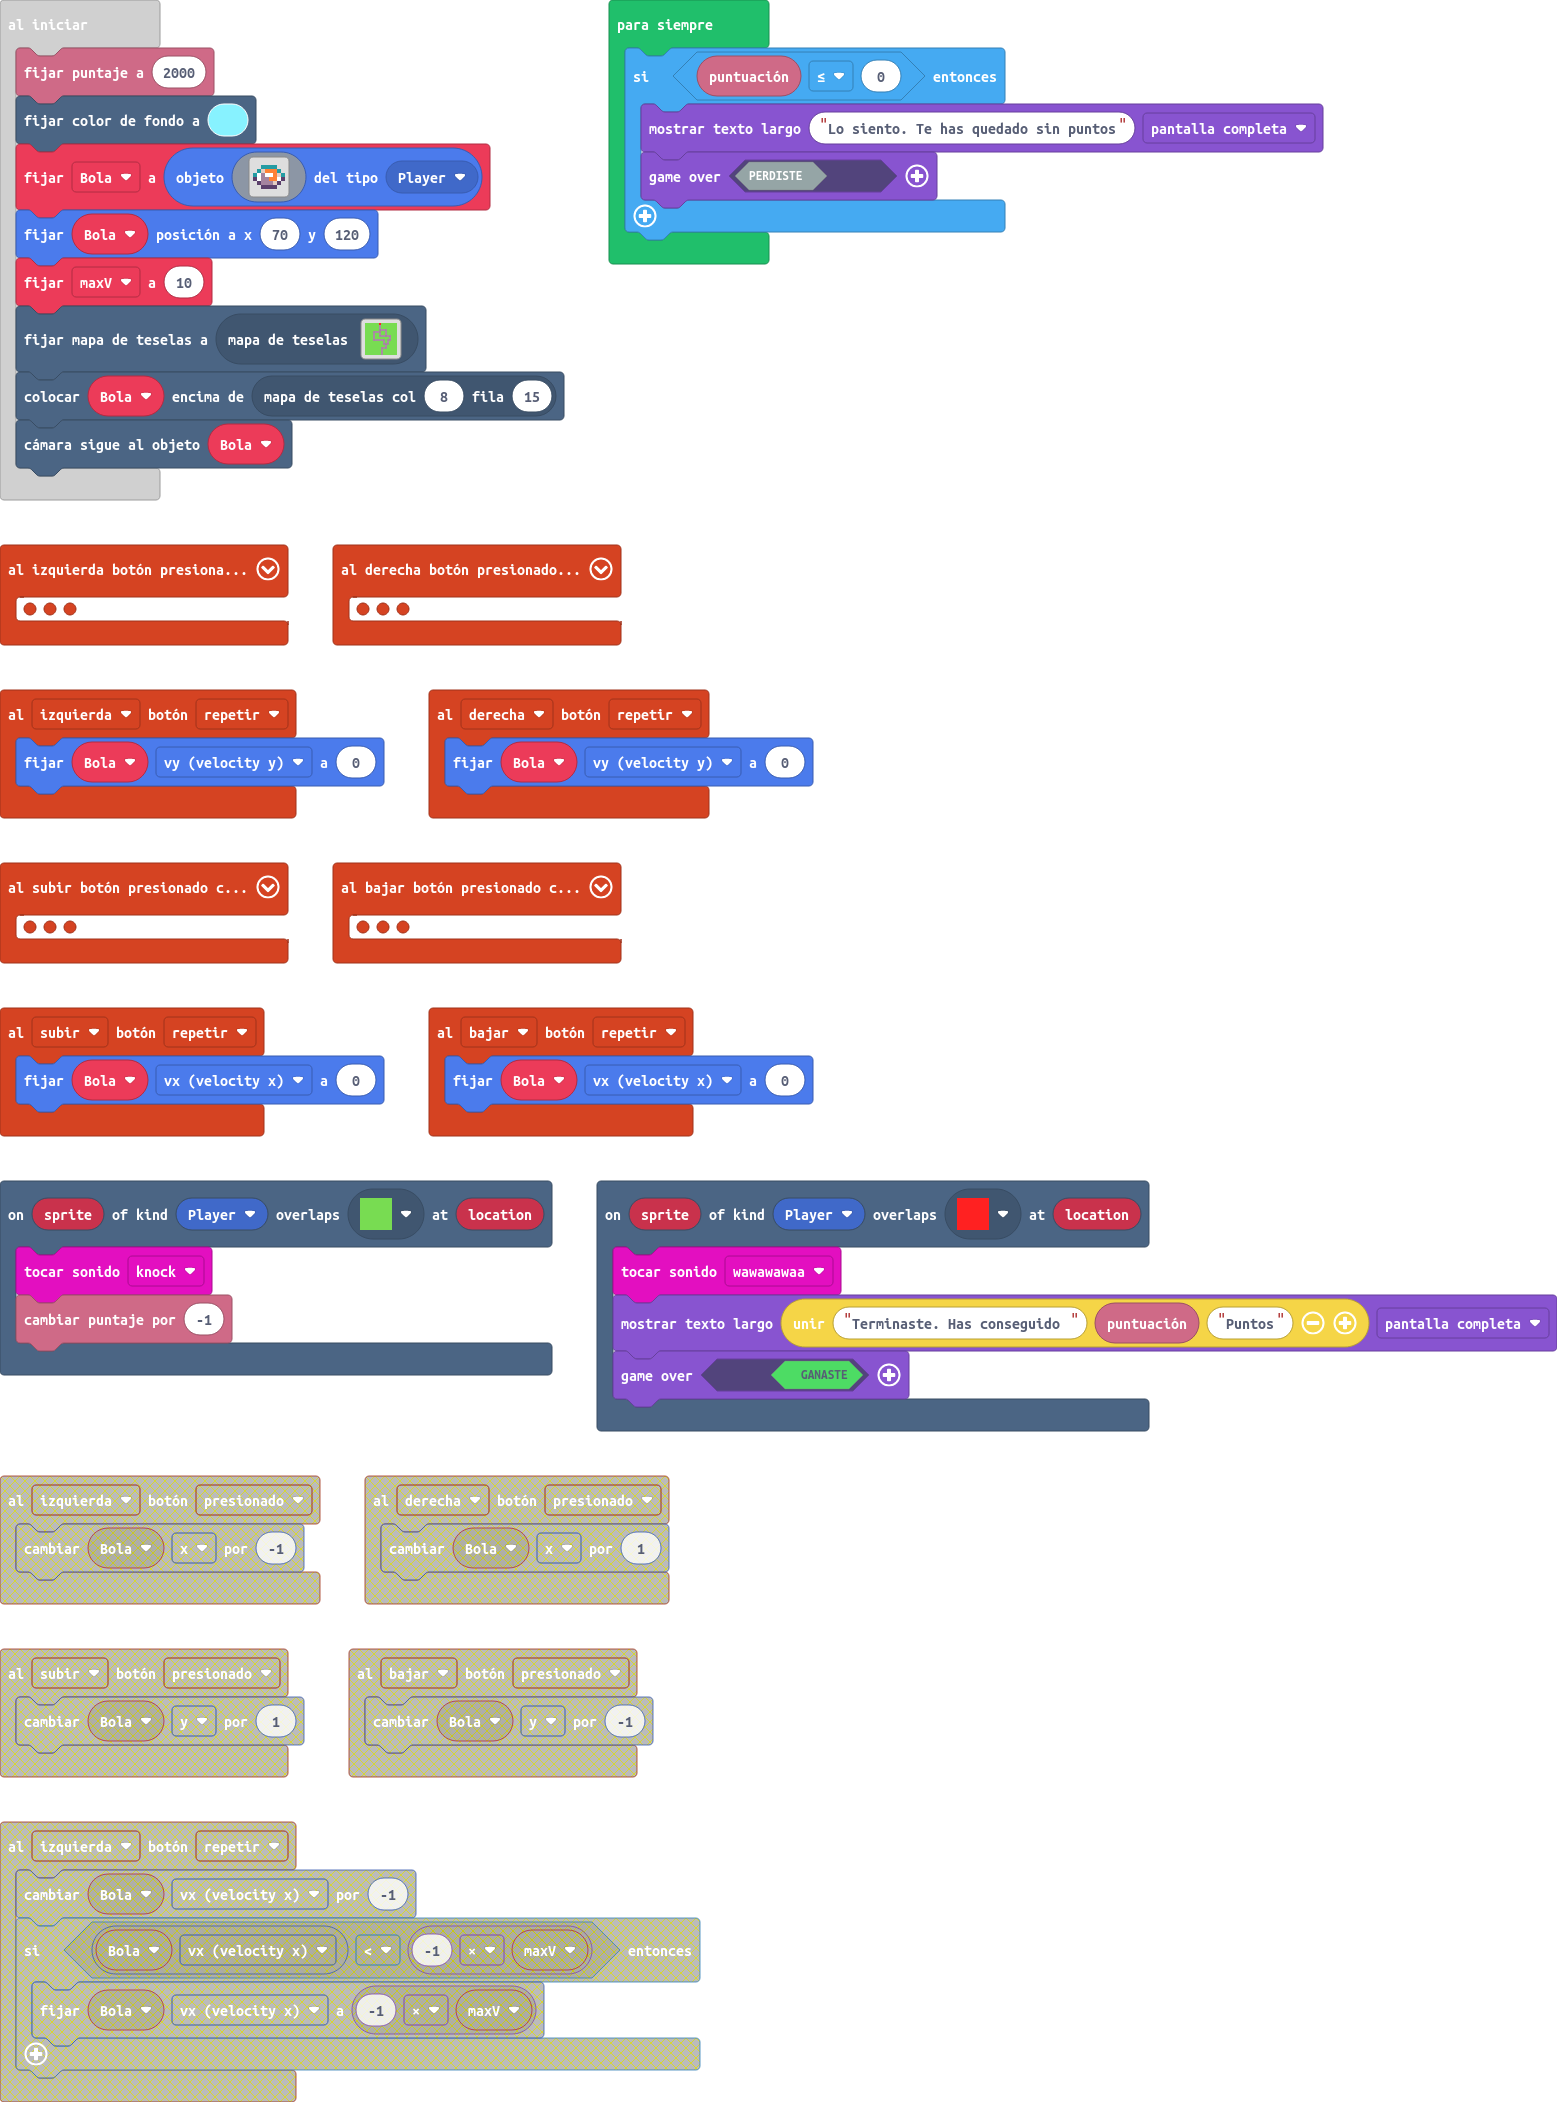
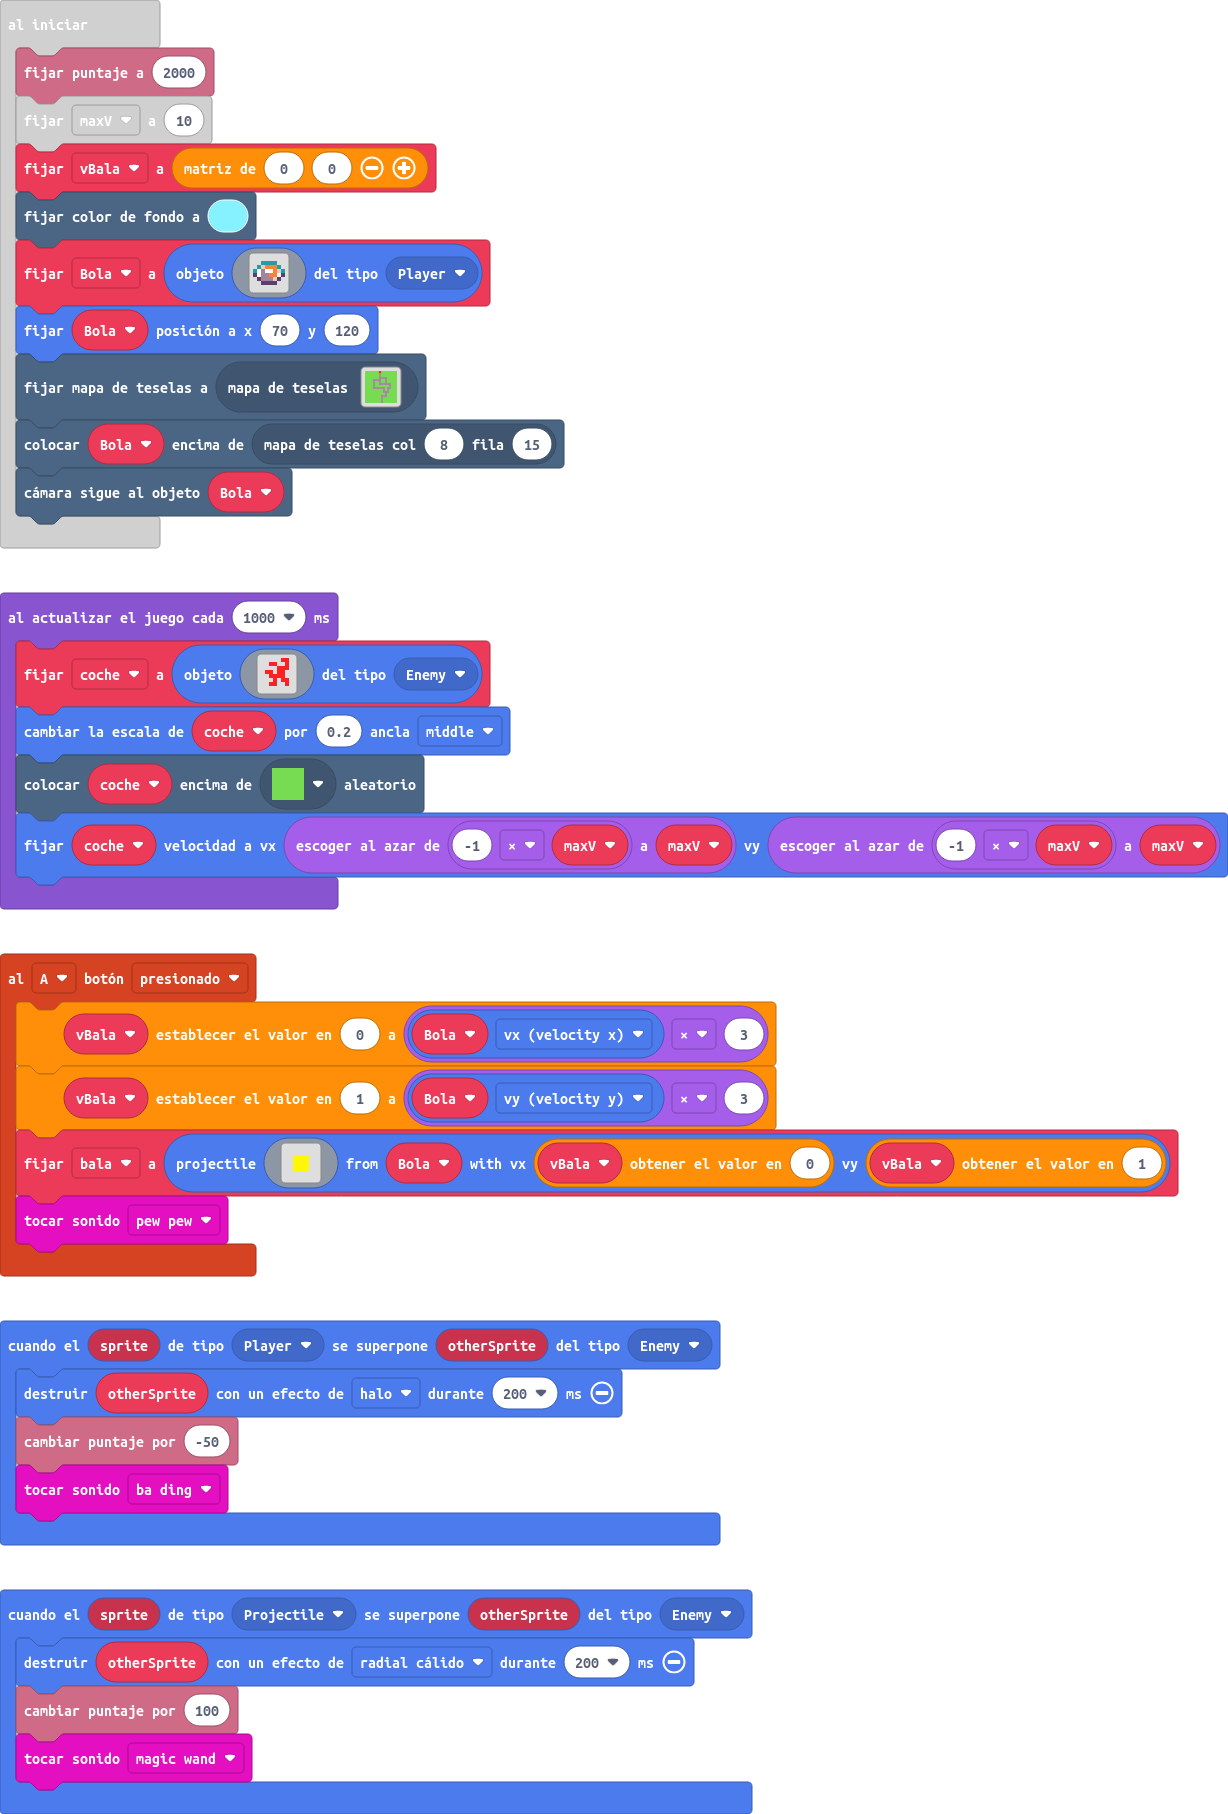
Juego acabado.

diff --git a/main.ts b/main.ts
@@ -19,6 +19,17 @@ scene.onOverlapTile(SpriteKind.Player, assets.tile`myTile`, function (sprite, lo
     music.knock.play()
     info.changeScoreBy(-1)
 })
+controller.A.onEvent(ControllerButtonEvent.Pressed, function () {
+    vBala[0] = Bola.vx * 3
+    vBala[1] = Bola.vy * 3
+    bala = sprites.createProjectileFromSprite(img`
+        . . . . 
+        . 5 5 . 
+        . 5 5 . 
+        . . . . 
+        `, Bola, vBala[0], vBala[1])
+    music.pewPew.play()
+})
 controller.down.onEvent(ControllerButtonEvent.Repeated, function () {
     Bola.vx = 0
 })
@@ -40,12 +51,27 @@ controller.right.onEvent(ControllerButtonEvent.Repeated, function () {
 controller.up.onEvent(ControllerButtonEvent.Repeated, function () {
     Bola.vx = 0
 })
+sprites.onOverlap(SpriteKind.Projectile, SpriteKind.Enemy, function (sprite, otherSprite) {
+    otherSprite.destroy(effects.warmRadial, 200)
+    info.changeScoreBy(100)
+    music.magicWand.play()
+})
+sprites.onOverlap(SpriteKind.Player, SpriteKind.Enemy, function (sprite, otherSprite) {
+    otherSprite.destroy(effects.halo, 200)
+    info.changeScoreBy(-50)
+    music.baDing.play()
+})
 controller.left.onEvent(ControllerButtonEvent.Repeated, function () {
     Bola.vy = 0
 })
-let maxV = 0
+let coche: Sprite = null
+let bala: Sprite = null
 let Bola: Sprite = null
+let vBala: number[] = []
+let maxV = 0
 info.setScore(2000)
+maxV = 10
+vBala = [0, 0]
 scene.setBackgroundColor(9)
 Bola = sprites.create(img`
     . . 6 6 6 6 . . 
@@ -56,10 +82,15 @@ Bola = sprites.create(img`
     . . c c c c . . 
     `, SpriteKind.Player)
 Bola.setPosition(70, 120)
-maxV = 10
 tiles.setCurrentTilemap(tilemap`nivel1`)
 tiles.placeOnTile(Bola, tiles.getTileLocation(8, 15))
 scene.cameraFollowSprite(Bola)
+game.onUpdateInterval(1000, function () {
+    coche = sprites.create(assets.image`mipropio`, SpriteKind.Enemy)
+    coche.changeScale(0.2, ScaleAnchor.Middle)
+    tiles.placeOnRandomTile(coche, assets.tile`myTile`)
+    coche.setVelocity(randint(-1 * maxV, maxV), randint(-1 * maxV, maxV))
+})
 forever(function () {
     if (info.score() <= 0) {
         game.showLongText("Lo siento. Te has quedado sin puntos", DialogLayout.Full)

diff --git a/images.g.ts b/images.g.ts
@@ -1,0 +1,36 @@
+// Código generado automáticamente. No editar.
+namespace myImages {
+
+    helpers._registerFactory("image", function(name: string) {
+        switch(helpers.stringTrim(name)) {
+            case "image1":
+            case "mipropio":return img`
+. . . . . 2 2 . 
+. . 2 2 . . 2 . 
+. . . . 2 2 2 . 
+. 2 2 . 2 2 . . 
+. . 2 2 2 2 . . 
+. . . 2 . 2 2 . 
+. . 2 2 . . 2 . 
+. . . . . . . . 
+`;
+        }
+        return null;
+    })
+
+    helpers._registerFactory("animation", function(name: string) {
+        switch(helpers.stringTrim(name)) {
+
+        }
+        return null;
+    })
+
+    helpers._registerFactory("song", function(name: string) {
+        switch(helpers.stringTrim(name)) {
+
+        }
+        return null;
+    })
+
+}
+// Código generado automáticamente. No editar.
